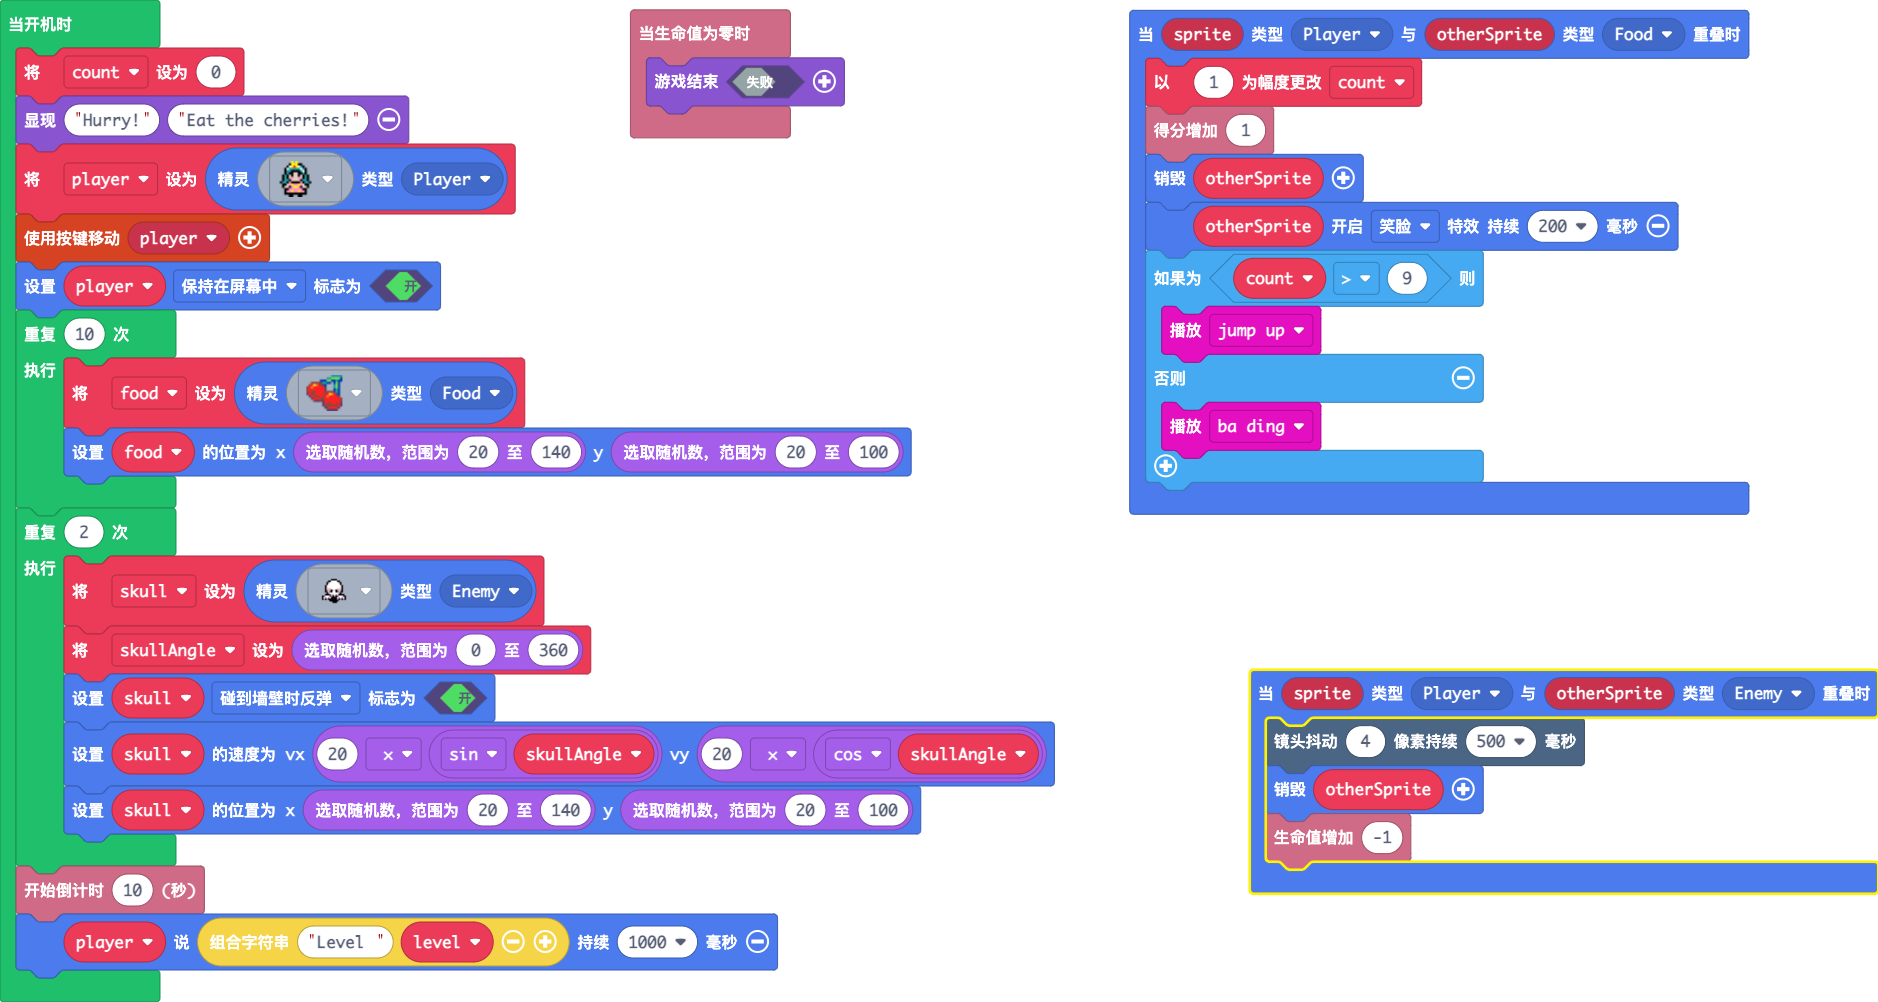
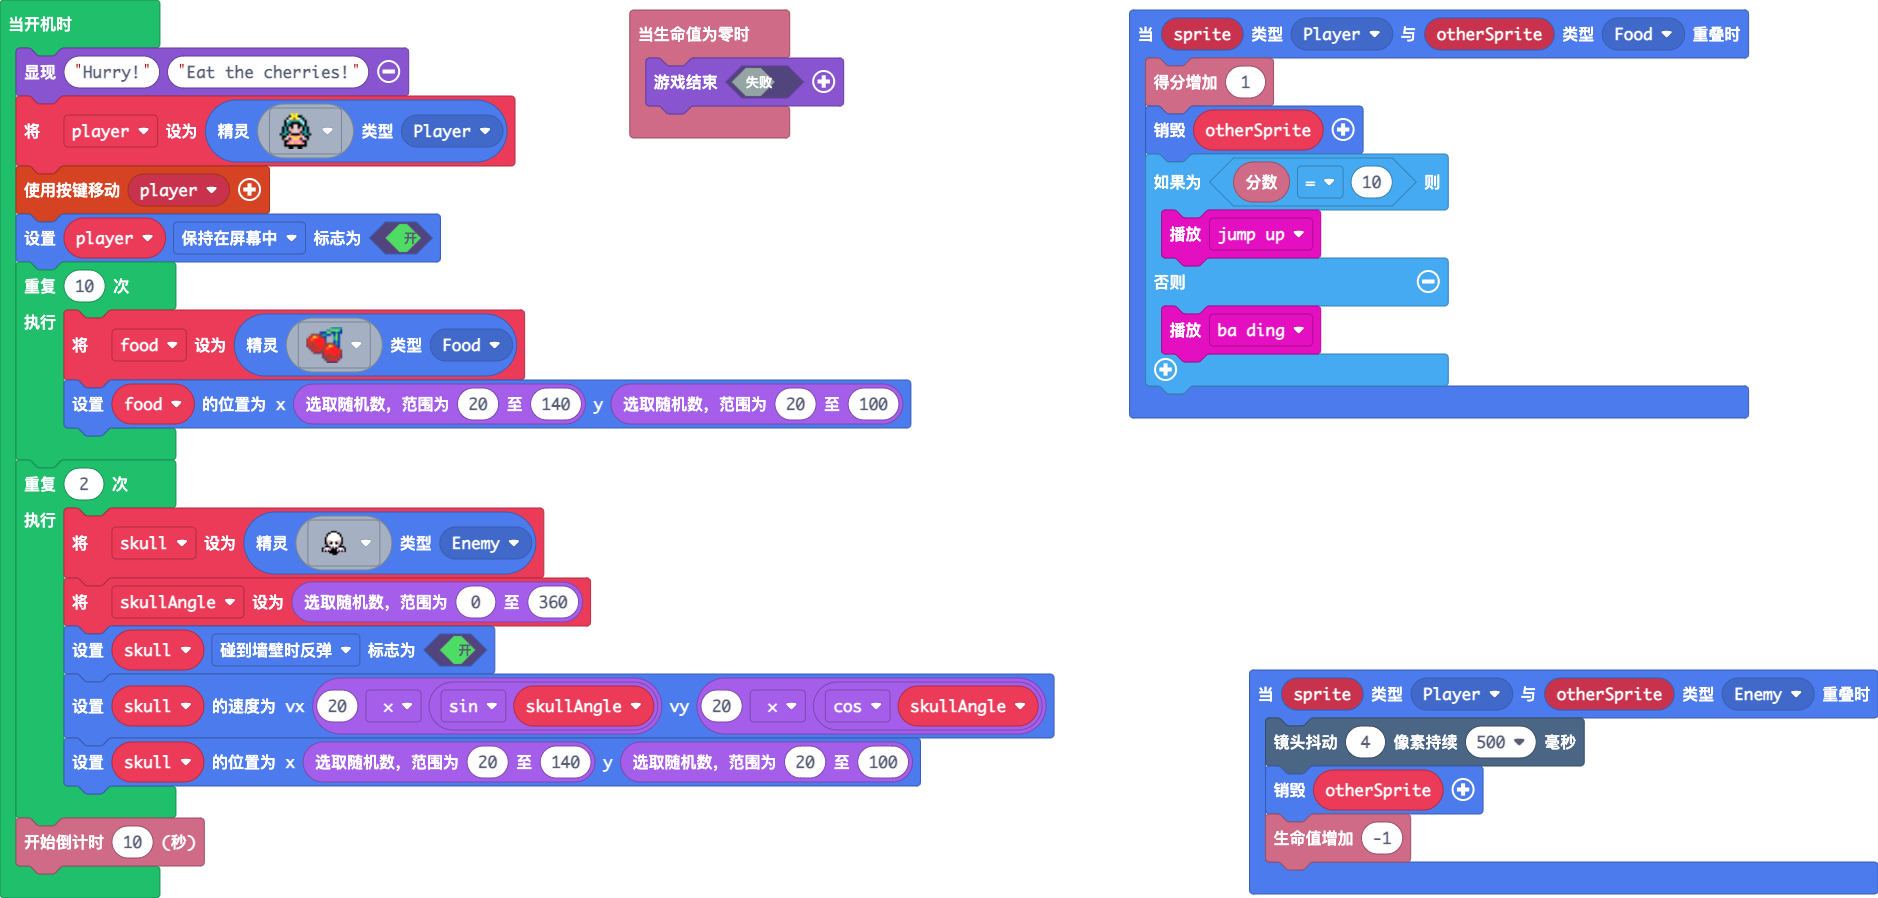
更新 pxt.json, main.blocks, main.ts

diff --git a/main.ts b/main.ts
@@ -2,11 +2,9 @@ info.onLifeZero(function () {
     game.over(false)
 })
 sprites.onOverlap(SpriteKind.Player, SpriteKind.Food, function (sprite, otherSprite) {
-    count += 1
     info.changeScoreBy(1)
     otherSprite.destroy()
-    otherSprite.startEffect(effects.smiles, 200)
-    if (count > 9) {
+    if (info.score() == 10) {
         music.jumpUp.play()
     } else {
         music.baDing.play()
@@ -17,12 +15,9 @@ sprites.onOverlap(SpriteKind.Player, SpriteKind.Enemy, function (sprite, otherSp
     otherSprite.destroy()
     info.changeLifeBy(-1)
 })
-let level = 0
 let skullAngle = 0
 let skull: Sprite = null
 let food: Sprite = null
-let count = 0
-count = 0
 game.splash("Hurry!", "Eat the cherries!")
 let player = sprites.create(sprites.castle.princessFront0, SpriteKind.Player)
 controller.moveSprite(player)
@@ -39,4 +34,3 @@ for (let index = 0; index < 2; index++) {
     skull.setPosition(randint(20, 140), randint(20, 100))
 }
 info.startCountdown(10)
-player.say("Level " + level, 1000)
